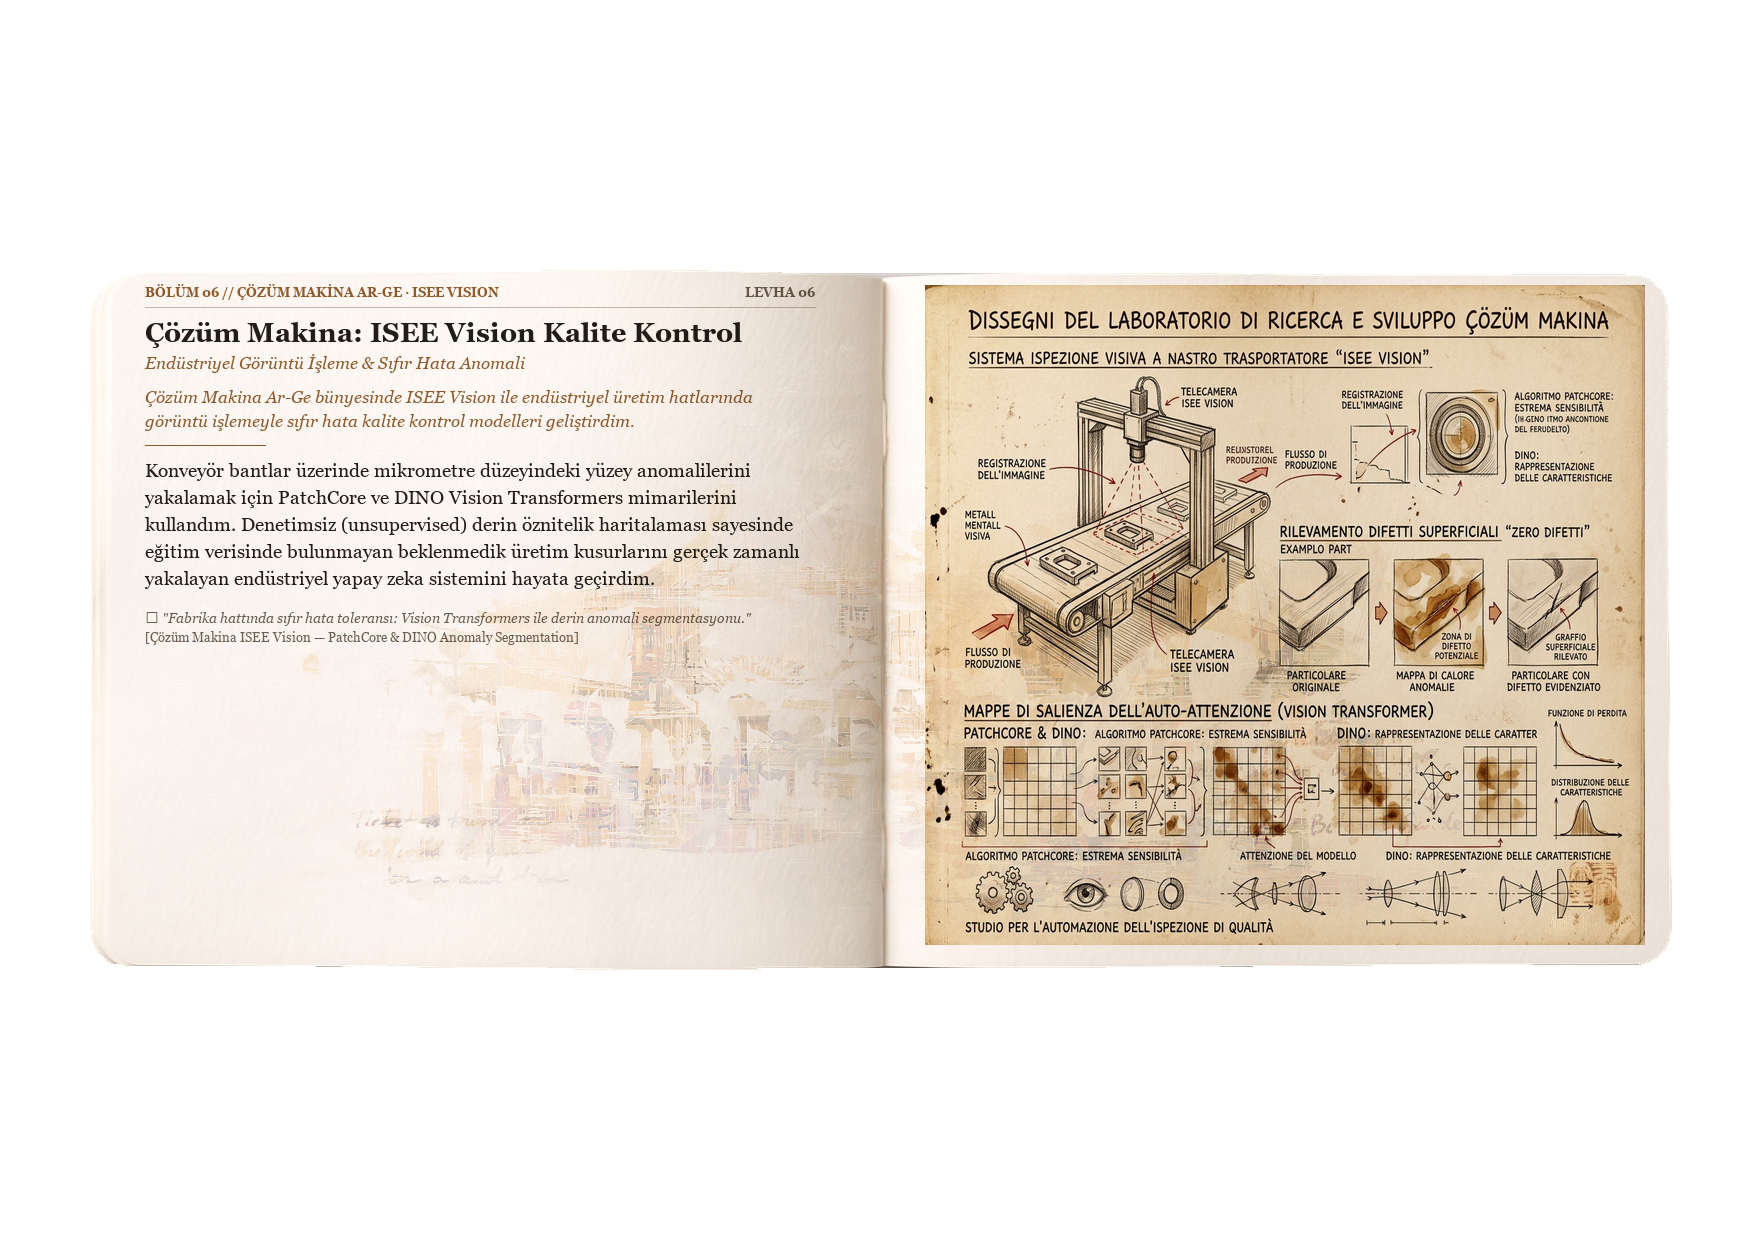
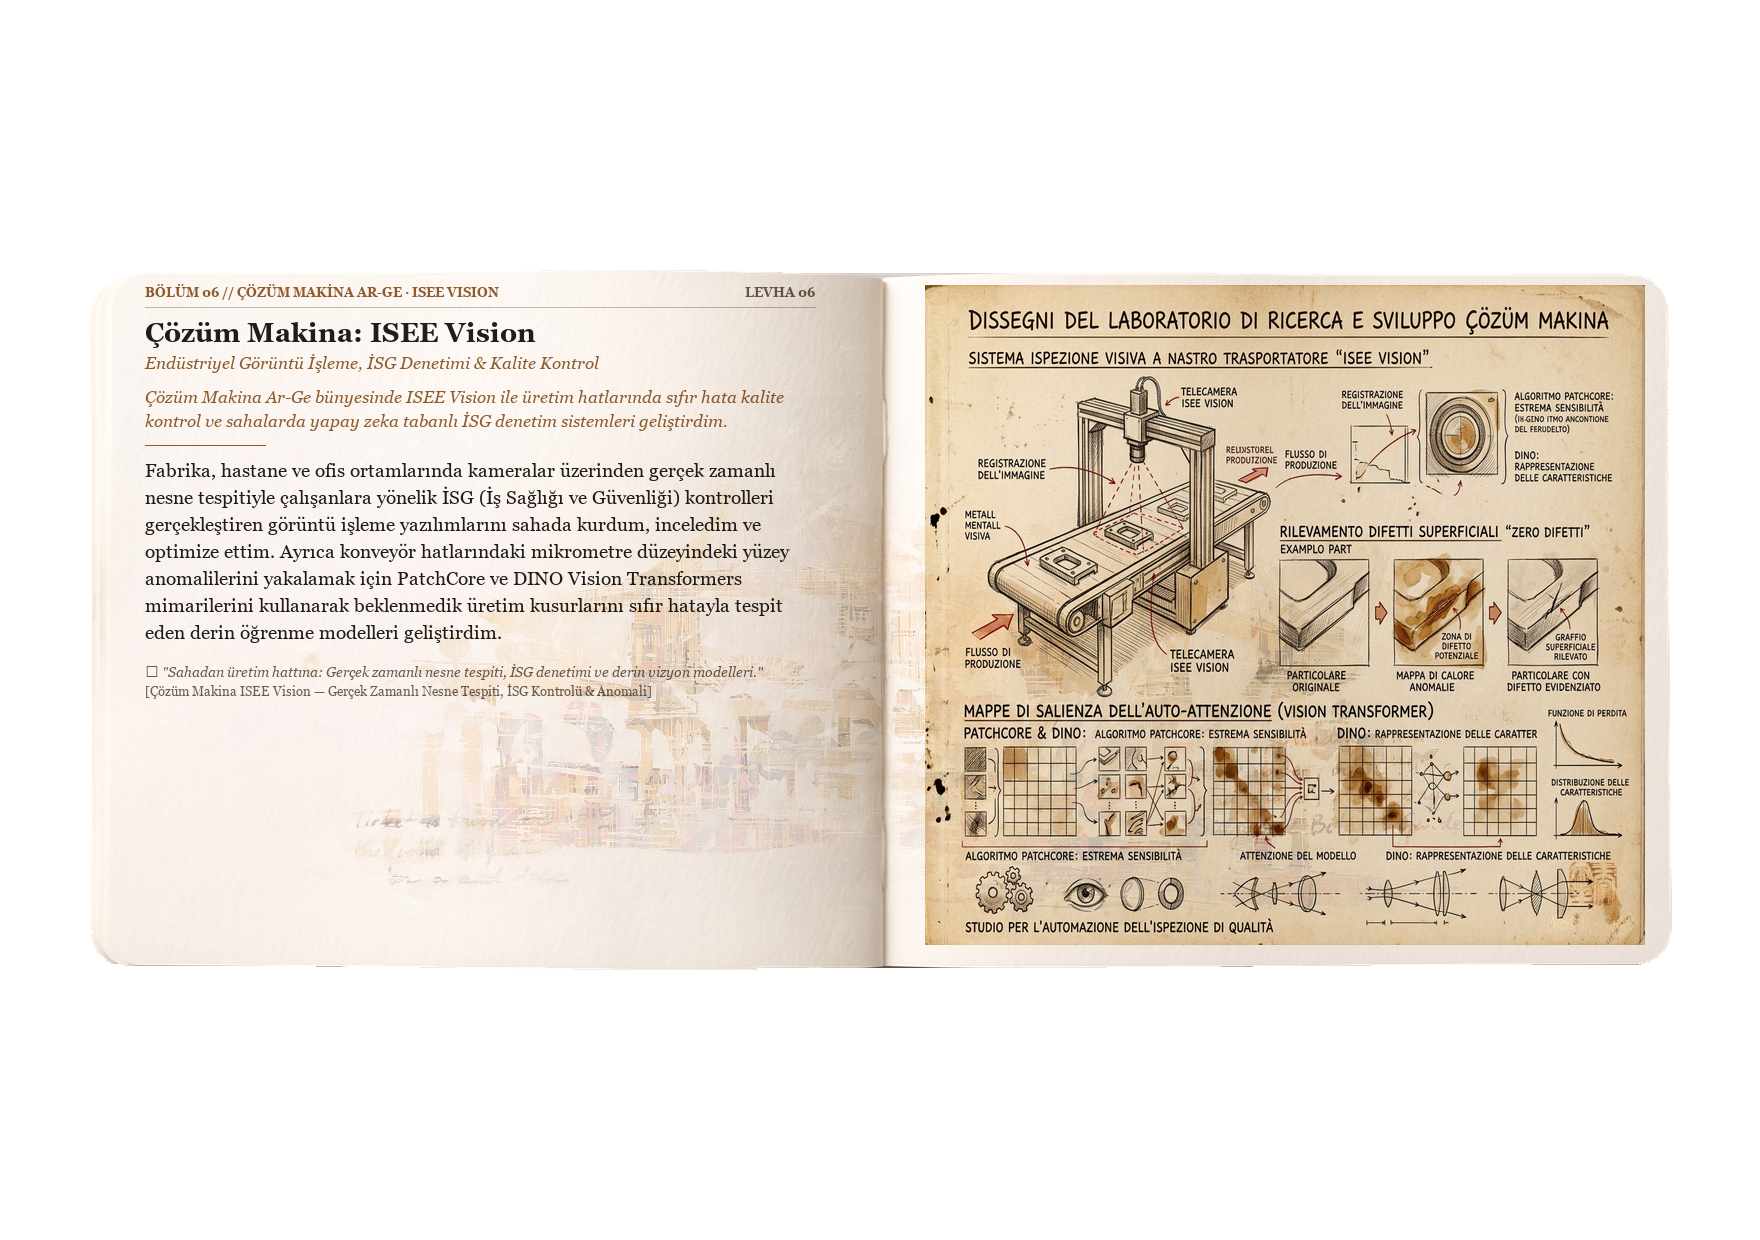
feat(sketchbook): update ISEE Vision page with factory/hospital/office OHS inspection & object detection software experience

Changed region(s): [[0.0625, 0.2452, 0.4688, 0.5823]]

diff --git a/public/landing-pages/meng-to-sketchbook.html b/public/landing-pages/meng-to-sketchbook.html
@@ -703,7 +703,7 @@ const PAGES_TR=[
   {file:'merlion.png',            title:'Tekirdağ Namık Kemal Üniversitesi',       place:'Bilgisayar Mühendisliği'},
   {file:'buddha-tooth.png',       title:'Martur Fompak International',             place:'Şirket İçi Kurumsal Yapay Zeka Sistemleri'},
   {file:'lau-pa-sat.png',         title:'Şahi SİHA: Muharebe Otonomisi',           place:'TEKNOFEST Savaşan İHA · Yazılım Ekip Lideri'},
-  {file:'marina-bay-skyline.png', title:'Çözüm Makina: ISEE Vision',               place:'Endüstriyel Görüntü İşleme & Kalite Kontrol'},
+  {file:'marina-bay-skyline.png', title:'Çözüm Makina: ISEE Vision',               place:'Görüntü İşleme, İSG Denetimi & Kalite Kontrol'},
   {file:'singapore-river.png',    title:'Çözüm Makina: ISEE Robotics',             place:'Endüstriyel Robotik, ROS, MQTT & Gazebo'},
   {file:'botanic-gardens.png',    title:'Teorik bilgilerimi pratiğe çeviriyorum.', place:'Gelecek Vizyonu'}
 ];
@@ -714,7 +714,7 @@ const PAGES_EN=[
   {file:'merlion.png',            title:'Tekirdağ Namık Kemal University',         place:'Computer Engineering'},
   {file:'buddha-tooth.png',       title:'Martur Fompak International',             place:'Internal Enterprise AI & Multi-Agent Systems'},
   {file:'lau-pa-sat.png',         title:'Şahi UAV: Combat Autonomy',               place:'TEKNOFEST Fighting UAV · Software Team Lead'},
-  {file:'marina-bay-skyline.png', title:'Çözüm Makina: ISEE Vision',               place:'Industrial Computer Vision & Zero-Defect'},
+  {file:'marina-bay-skyline.png', title:'Çözüm Makina: ISEE Vision',               place:'Computer Vision, OHS Safety & Zero-Defect'},
   {file:'singapore-river.png',    title:'Çözüm Makina: ISEE Robotics',             place:'Industrial Robotics, ROS, MQTT & Gazebo'},
   {file:'botanic-gardens.png',    title:'Transforming theory into practice.',      place:'Future Vision'}
 ];

diff --git a/scratch/build_all_spreads_v2.py b/scratch/build_all_spreads_v2.py
@@ -91,12 +91,12 @@ spreads_data = [
         'illus': 'plate06_cozum_makina_1789635755334.jpg',
         'kicker': 'BÖLÜM 06 // ÇÖZÜM MAKİNA AR-GE · ISEE VISION',
         'plate_num': 'LEVHA 06',
-        'title': 'Çözüm Makina: ISEE Vision Kalite Kontrol',
-        'subtitle': 'Endüstriyel Görüntü İşleme & Sıfır Hata Anomali',
-        'lead': 'Çözüm Makina Ar-Ge bünyesinde ISEE Vision ile endüstriyel üretim hatlarında görüntü işlemeyle sıfır hata kalite kontrol modelleri geliştirdim.',
-        'body': 'Konveyör bantlar üzerinde mikrometre düzeyindeki yüzey anomalilerini yakalamak için PatchCore ve DINO Vision Transformers mimarilerini kullandım. Denetimsiz (unsupervised) derin öznitelik haritalaması sayesinde eğitim verisinde bulunmayan beklenmedik üretim kusurlarını gerçek zamanlı yakalayan endüstriyel yapay zeka sistemini hayata geçirdim.',
-        'note': '✦ "Fabrika hattında sıfır hata toleransı: Vision Transformers ile derin anomali segmentasyonu."',
-        'signature': '[Çözüm Makina ISEE Vision — PatchCore & DINO Anomaly Segmentation]'
+        'title': 'Çözüm Makina: ISEE Vision',
+        'subtitle': 'Endüstriyel Görüntü İşleme, İSG Denetimi & Kalite Kontrol',
+        'lead': 'Çözüm Makina Ar-Ge bünyesinde ISEE Vision ile üretim hatlarında sıfır hata kalite kontrol ve sahalarda yapay zeka tabanlı İSG denetim sistemleri geliştirdim.',
+        'body': 'Fabrika, hastane ve ofis ortamlarında kameralar üzerinden gerçek zamanlı nesne tespitiyle çalışanlara yönelik İSG (İş Sağlığı ve Güvenliği) kontrolleri gerçekleştiren görüntü işleme yazılımlarını sahada kurdum, inceledim ve optimize ettim. Ayrıca konveyör hatlarındaki mikrometre düzeyindeki yüzey anomalilerini yakalamak için PatchCore ve DINO Vision Transformers mimarilerini kullanarak beklenmedik üretim kusurlarını sıfır hatayla tespit eden derin öğrenme modelleri geliştirdim.',
+        'note': '✦ "Sahadan üretim hattına: Gerçek zamanlı nesne tespiti, İSG denetimi ve derin vizyon modelleri."',
+        'signature': '[Çözüm Makina ISEE Vision — Gerçek Zamanlı Nesne Tespiti, İSG Kontrolü & Anomali]'
     },
     {
         'file': 'singapore-river.png',
